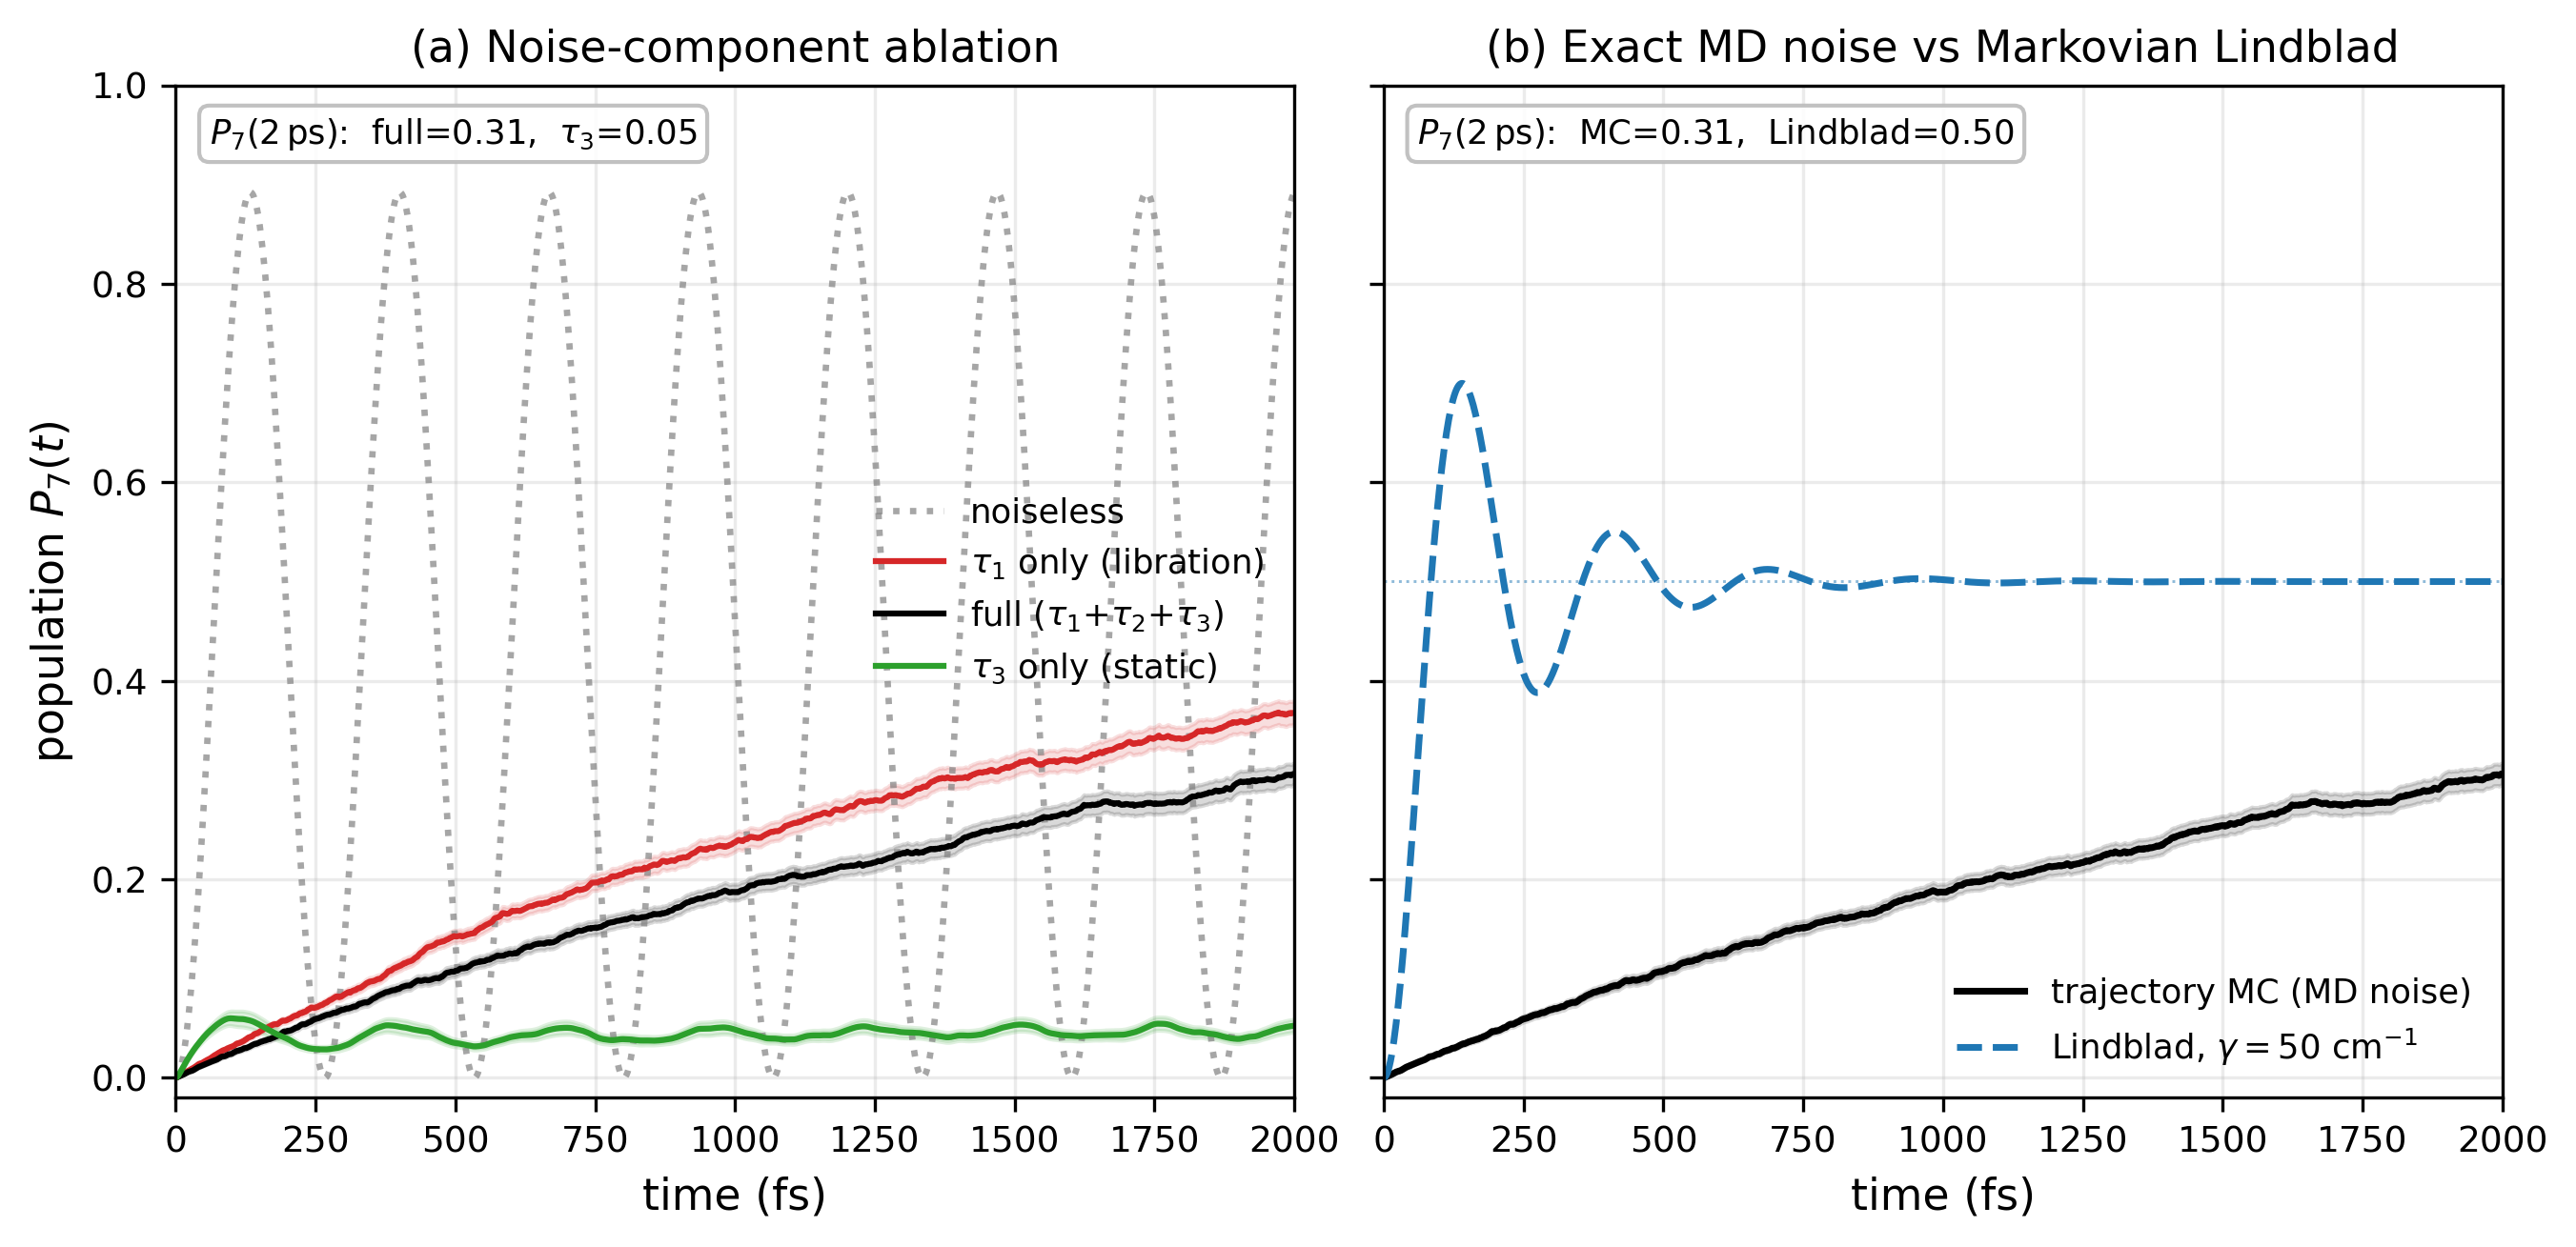
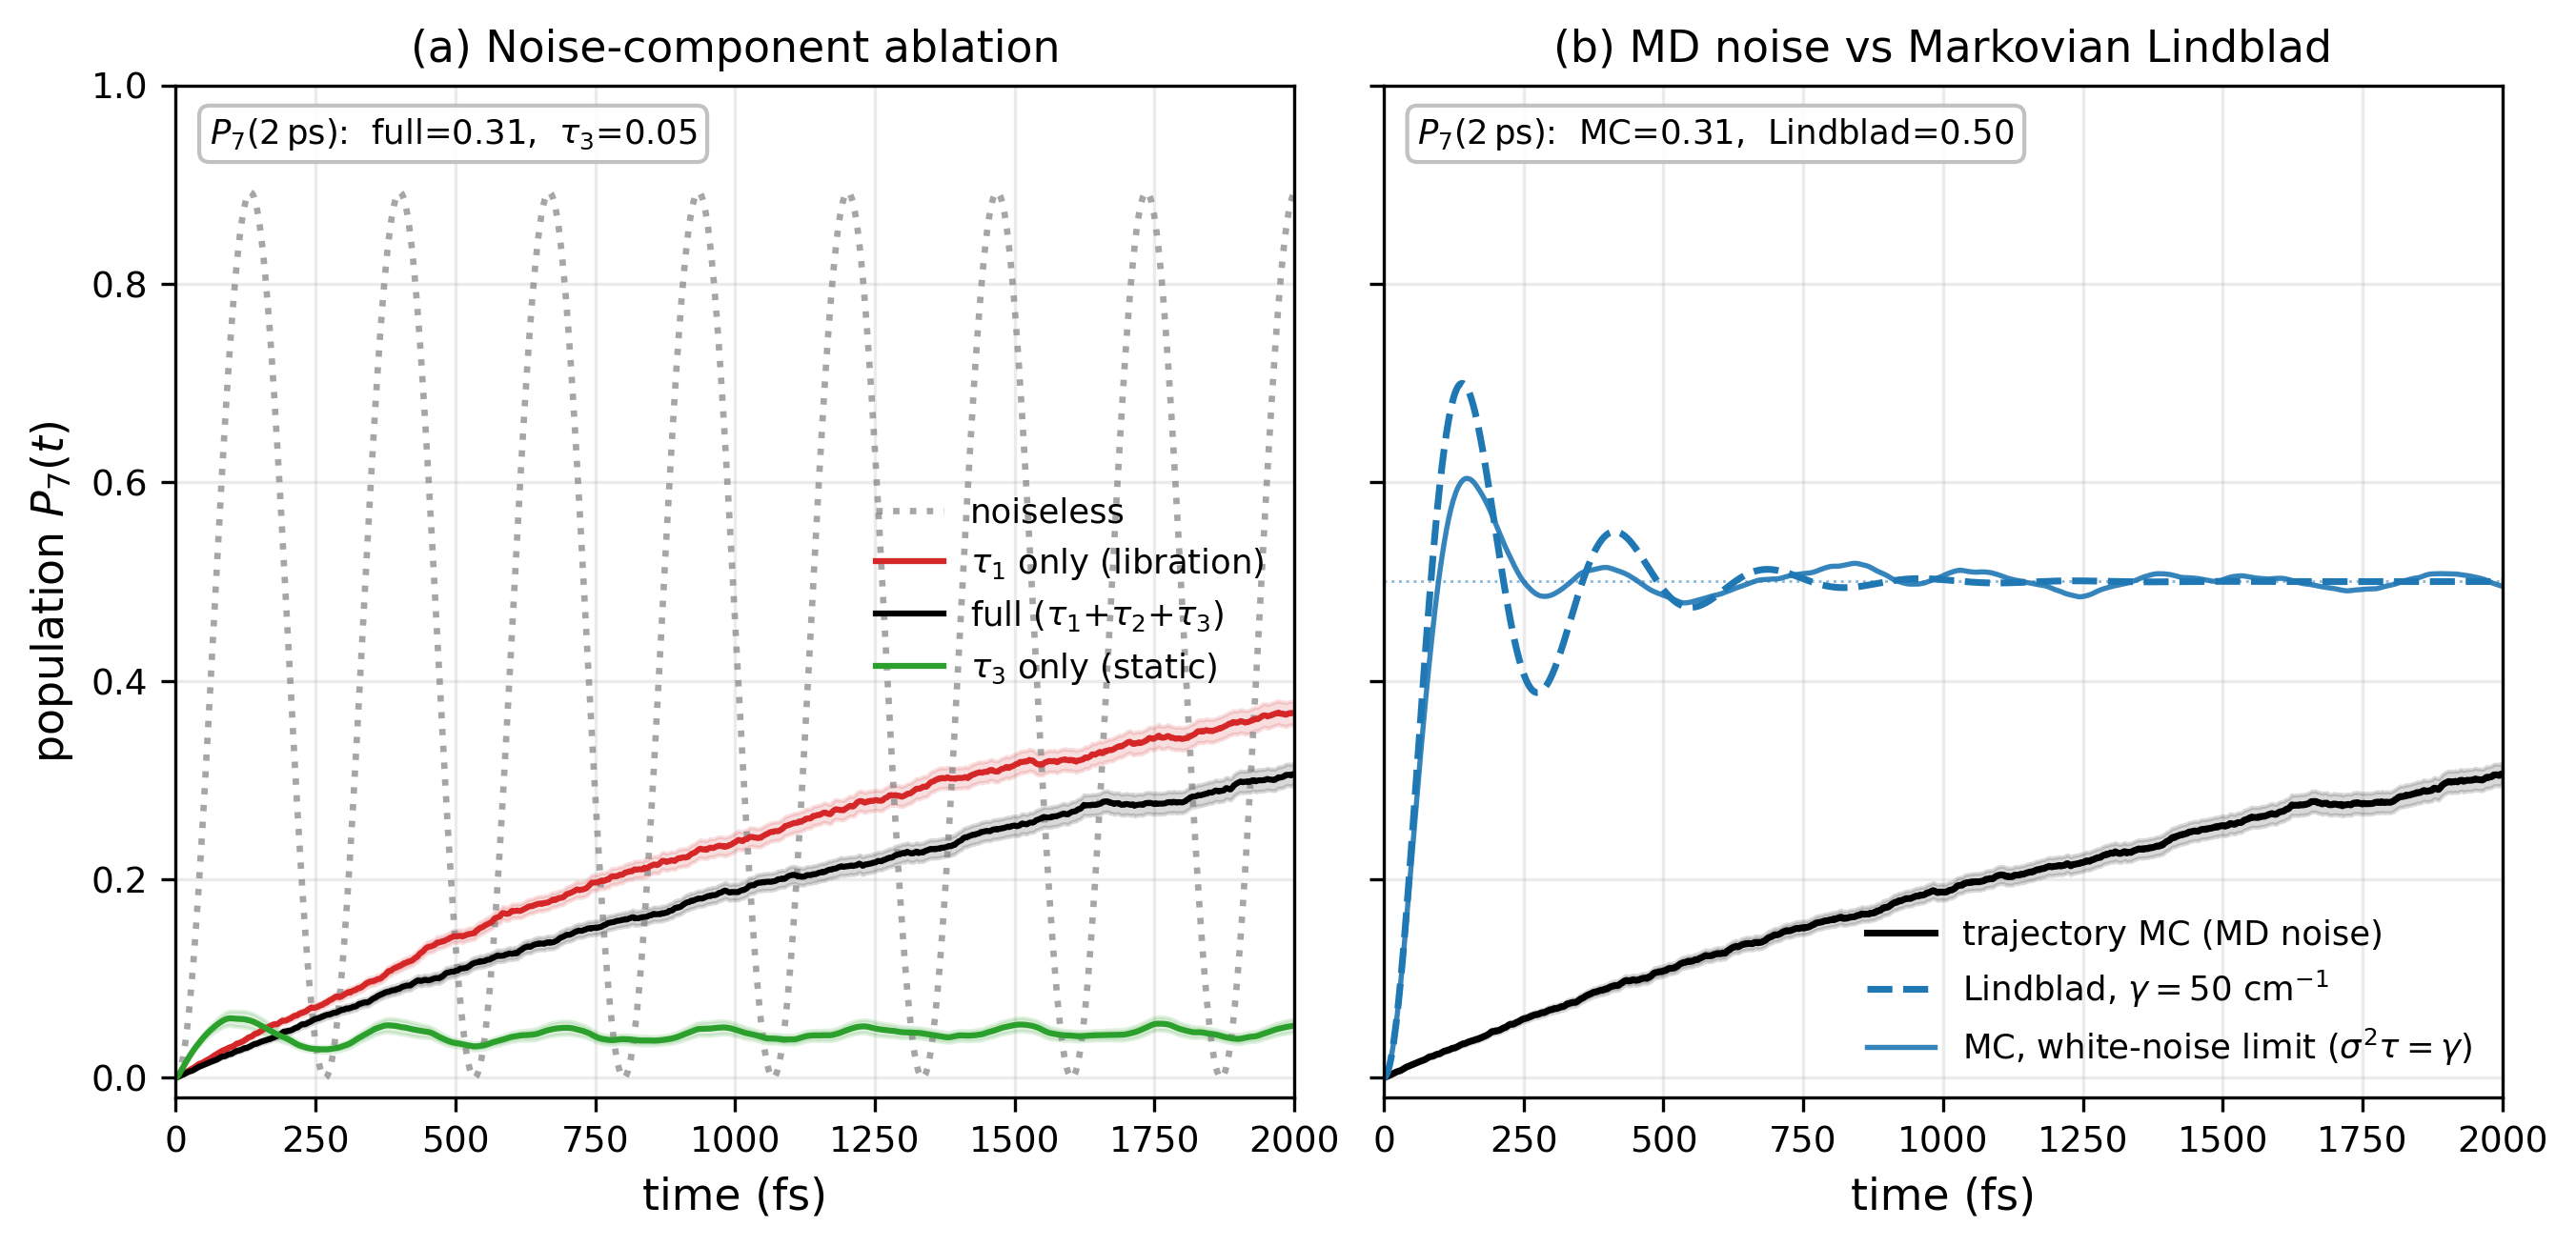
[feat] MC white noise limit added

diff --git a/scripts/paper_figures/run_exciton_tuned.py b/scripts/paper_figures/run_exciton_tuned.py
@@ -1,0 +1,91 @@
+#!/usr/bin/env python
+"""Two diagnostic MC runs for Fig 3(b):
+
+(1) White-noise (Markovian) limit: single OU process per site with tau -> 0
+    and sigma^2*tau matched to the Lindblad dephasing rate gamma=50 cm^-1.
+    The trajectory MC must converge onto the Haken-Strobl Lindblad curve --
+    a validation that the MC code reduces correctly to the Markovian result.
+
+    Matching: per-site white-noise intensity sigma^2*tau equals the Lindblad
+    coherence-decay rate gamma_ps (gamma=50 cm^-1 in rad/ps), because the
+    site-basis coherence |0><1| decays at rate gamma_ps in both descriptions.
+
+(2) sigma-scaling scan: realistic tri-exp noise but sigma -> alpha*sigma_MD,
+    to find the alpha at which P7(2 ps) matches the Lindblad value (0.50).
+    Shows how much weaker than MD the bath must be to imitate gamma=50.
+
+Outputs: results/paper_figures/whitenoise_mc.npz, sigma_scan.npz
+"""
+from __future__ import annotations
+import sys
+from pathlib import Path
+import numpy as np
+
+sys.path.insert(0, str(Path(__file__).resolve().parent))
+from _common import CM_TO_RADPS, PAPER_DIR
+import run_exciton_mc as M   # reuse operators, gen_ou, grid, Hamiltonian pieces
+
+GAMMA_CM = 50.0
+GAMMA_PS = GAMMA_CM * CM_TO_RADPS            # 9.42 rad/ps (coherence decay rate)
+TAU_WN = 0.005                               # ps — white-noise OU tau (<< 1/J ~ 0.09 ps)
+SIG_WN = np.sqrt(GAMMA_PS / TAU_WN)          # per-site sigma (rad/ps) so sigma^2 tau = gamma_ps
+N_REAL_WN = 1500                             # extra realizations for a clean validation curve
+
+
+def run_whitenoise():
+    """Single-OU-per-site MC in the Markovian limit, matched to gamma=50."""
+    J  = M.J_CM * CM_TO_RADPS
+    dE = M.D_E_CM * CM_TO_RADPS
+    H0 = J * M.SX + (dE / 2) * M.SZ
+    amps1 = np.array([1.0, 0.0, 0.0]); taus1 = np.array([TAU_WN, 1.0, 1.0])
+    r = M.run_ensemble(SIG_WN, SIG_WN, amps1, taus1, amps1, taus1, N_REAL_WN, H0)
+    print(f"[white-noise] sigma={SIG_WN:.2f} rad/ps, tau={TAU_WN} ps, "
+          f"sigma^2*tau={SIG_WN**2*TAU_WN:.3f} (=gamma_ps={GAMMA_PS:.3f})")
+    print(f"[white-noise] P7(2ps)={r['P7'][-1]:.4f} +- {r['P7_sem'][-1]:.4f}  "
+          f"(Lindblad target 0.500)")
+    np.savez_compressed(PAPER_DIR / 'whitenoise_mc.npz',
+                        t=M.TLIST, P7=r['P7'], P7_sem=r['P7_sem'],
+                        P4=r['P4'], coh=r['coh'], sigma_wn=SIG_WN, tau_wn=TAU_WN,
+                        gamma_ps=GAMMA_PS)
+
+
+def run_sigma_scan():
+    """Realistic tri-exp noise scaled by alpha; find alpha for P7(2ps)=0.50."""
+    sig, tri = M.load_site_params()
+    s4, s7 = sig[M.I4], sig[M.I7]
+    a4, t4 = tri[M.I4]; a7, t7 = tri[M.I7]
+    J  = M.J_CM * CM_TO_RADPS
+    dE = M.D_E_CM * CM_TO_RADPS
+    H0 = J * M.SX + (dE / 2) * M.SZ
+    alphas = [0.05, 0.08, 0.10, 0.12, 0.15, 0.20, 0.30, 0.50, 1.00]
+    P7end = []
+    for a in alphas:
+        r = M.run_ensemble(a*s4, a*s7, a4, t4, a7, t7, 300, H0)
+        P7end.append(float(r['P7'][-1]))
+        print(f"[sigma-scan] alpha={a:.2f}  P7(2ps)={P7end[-1]:.3f}")
+    # interpolate alpha where P7 = 0.50
+    a_arr = np.array(alphas); p_arr = np.array(P7end)
+    # find crossing of 0.5 on the ascending branch (small->mid alpha)
+    np.savez_compressed(PAPER_DIR / 'sigma_scan.npz',
+                        alpha=a_arr, P7_2ps=p_arr)
+    # crude interpolation around the 0.50 level
+    for i in range(len(a_arr)-1):
+        if (p_arr[i]-0.5)*(p_arr[i+1]-0.5) < 0:
+            a0,a1 = a_arr[i],a_arr[i+1]; p0,p1=p_arr[i],p_arr[i+1]
+            a_cross = a0 + (a1-a0)*(0.5-p0)/(p1-p0)
+            print(f"\n=> P7=0.50 at alpha ~ {a_cross:.3f}  "
+                  f"(sigma_eff4={a_cross*s4:.0f}, sigma_eff7={a_cross*s7:.0f} cm^-1)")
+            return a_cross
+    print("\n(no crossing of 0.50 found in scanned range)")
+    return None
+
+
+def main():
+    print("=== (1) white-noise Markovian-limit MC ===")
+    run_whitenoise()
+    print("\n=== (2) sigma-scaling scan ===")
+    run_sigma_scan()
+
+
+if __name__ == '__main__':
+    main()

diff --git a/scripts/paper_figures/fig3_exciton.py b/scripts/paper_figures/fig3_exciton.py
@@ -48,16 +48,22 @@ def main():
     ax1.text(0.03, 0.97, txt, transform=ax1.transAxes, va='top', fontsize=8.5,
              bbox=dict(boxstyle='round,pad=0.3', fc='white', ec='#bbb', alpha=0.9))
 
-    # ── (b) MC vs Lindblad ──
+    # ── (b) MC vs Lindblad, with Markovian-limit validation ──
     ax2.plot(t_fs, mc['full_P7'], '-', color='black', lw=1.7,
              label='trajectory MC (MD noise)')
     ax2.fill_between(t_fs, mc['full_P7'] - mc['full_P7_sem'],
                      mc['full_P7'] + mc['full_P7_sem'], color='black', alpha=0.15)
     ax2.plot(lb2['t'] * 1e3, lb2['P7'], '--', color='#1f77b4', lw=1.7,
              label=r'Lindblad, $\gamma=50$ cm$^{-1}$')
+    # white-noise-limit MC: sigma^2 tau matched to gamma -> must track Lindblad
+    wn_path = PAPER_DIR / 'whitenoise_mc.npz'
+    if wn_path.exists():
+        wn = np.load(wn_path)
+        ax2.plot(wn['t'] * 1e3, wn['P7'], '-', color='#1f77b4', lw=1.3,
+                 alpha=0.9, label=r'MC, white-noise limit ($\sigma^2\tau{=}\gamma$)')
     ax2.axhline(0.5, color='#1f77b4', ls=':', lw=0.7, alpha=0.5)
     ax2.set_xlabel('time (fs)')
-    ax2.set_title('(b) Exact MD noise vs Markovian Lindblad')
+    ax2.set_title('(b) MD noise vs Markovian Lindblad')
     ax2.set_xlim(0, t_fs[-1])
     ax2.legend(loc='lower right')
     txt2 = (f"$P_7(2\\,$ps$)$:  MC={mc['full_P7'][-1]:.2f},  "

diff --git a/results_section.md b/results_section.md
@@ -102,7 +102,7 @@ is propagated unitarily ($\Delta t=2$ fs, $T_{\rm obs}=2$ ps) and the observable
 
 ![Fig 3](./results/paper_figures/fig3_exciton.png)
 
-**Figure 3.** Population $P_7(t)$ starting from Trp4. (a) Noise-component ablation. (b) Trajectory MC (full MD noise) versus the Craddock-2014 Haken–Strobl Lindblad ($\gamma=50$ cm⁻¹) on the same dimer.
+**Figure 3.** Population $P_7(t)$ starting from Trp4. (a) Noise-component ablation. (b) Trajectory MC with full MD noise (black) versus the Haken–Strobl Lindblad at $\gamma=50$ cm⁻¹ (dashed blue); the green curve drives the MC in the white-noise limit ($\sigma^2\tau=\gamma$) and converges onto the Lindblad result, validating the code.
 
 | noise configuration | $P_7(2\,{\rm ps})$ | character |
 |---|---|---|
@@ -114,7 +114,7 @@ is propagated unitarily ($\Delta t=2$ fs, $T_{\rm obs}=2$ ps) and the observable
 
 **Fast fluctuations drive incoherent transfer; static disorder traps.** With only the slow component $T_3$ the per-realisation energy gap stays far from resonance ($\sigma_{\Delta}/J\gg 1$), so the excitation remains on Trp4 — the Anderson-localised limit. Adding the fast components lets $\Delta\varepsilon(t)$ cross resonance repeatedly; each crossing opens a transfer window driven by $J$, and the ensemble-averaged population rises monotonically, without coherent oscillation, to $\sim 0.31$. This is **environment-assisted quantum transport**: the noise is not merely decoherence to be minimised but the transport mechanism itself.
 
-**Comparison to the Markovian treatment.** Craddock (2014) modelled dephasing with a Haken–Strobl Lindblad at a fixed rate $\gamma=50$ cm⁻¹ ($1/\gamma=106$ fs). On the same dimer this predicts $P_7(2\,{\rm ps})=0.50$, markedly higher than the exact coloured-noise result (0.31). The discrepancy is the non-Markovian regime: the Kubo numbers $\kappa_k=\sigma_k T_k/\hbar$ are $\gg 1$ for all three components (5–10 for $T_1$, 165 for $T_2$, $\sim 10^5$ for $T_3$), so the white-noise assumption underlying the Lindblad master equation is violated. A trajectory treatment of the realistic MD-derived bath is therefore essential; the Markovian rate is a fit parameter, not an ab initio prediction.
+**Comparison to the Markovian treatment.** Craddock (2014) modelled dephasing with a Haken–Strobl Lindblad at a fixed rate $\gamma=50$ cm⁻¹ ($1/\gamma=106$ fs). On the same dimer this predicts $P_7(2\,{\rm ps})=0.50$, markedly higher than the exact coloured-noise result (0.31). As a validation, we drive the trajectory MC with a single symmetric Ornstein–Uhlenbeck process on each site, choosing $\tau=5$ fs and $\sigma\approx 230$ cm⁻¹ so that the white-noise dephasing rate $\sigma^2\tau$ equals the Lindblad rate $\gamma=50$ cm⁻¹. This equality holds in natural $\hbar{=}1$ units, where wavenumbers convert to angular frequency via $2\pi c$: $\gamma=9.4$ ps⁻¹ and $\sigma=43$ ps⁻¹, giving $\sigma^2\tau=43^2\times 0.005=9.2$ ps⁻¹$\,\approx\gamma$ (and $\tau=5$ fs $\ll 1/J\approx 90$ fs, deep in the white-noise limit). The MC then converges onto the Lindblad curve ($P_7(2\,{\rm ps})=0.50\pm0.01$; solid blue, Fig. 3b), confirming both the code and that the MD–Lindblad discrepancy is physical rather than numerical. The discrepancy is the non-Markovian regime: the Kubo numbers $\kappa_k=\sigma_k T_k/\hbar$ are $\gg 1$ for all three components ($\sim$6 for $T_1$, $\sim 10^2$ for $T_2$, $\sim 10^5$ for $T_3$), so the white-noise assumption underlying the Lindblad master equation is violated. A $\sigma$-scan makes this quantitative: reproducing the Lindblad transfer $P_7=0.50$ with the realistic tri-exponential noise requires scaling the disorder to $\alpha\approx 0.12$ of its MD value ($\sigma_{\rm eff}\approx 120$ cm⁻¹ $\approx 2J$), i.e. $\gamma=50$ sits near the environment-assisted-transport optimum, whereas the true MD bath ($\sigma\approx 1000$ cm⁻¹ $\approx 17J$) lies deep in the overdamped regime. The Markovian rate is thus a fit parameter, not an ab initio prediction of the bath.
 
 ---
 